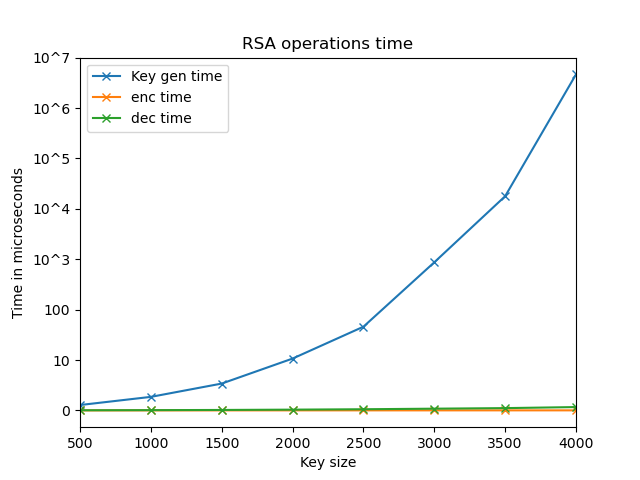
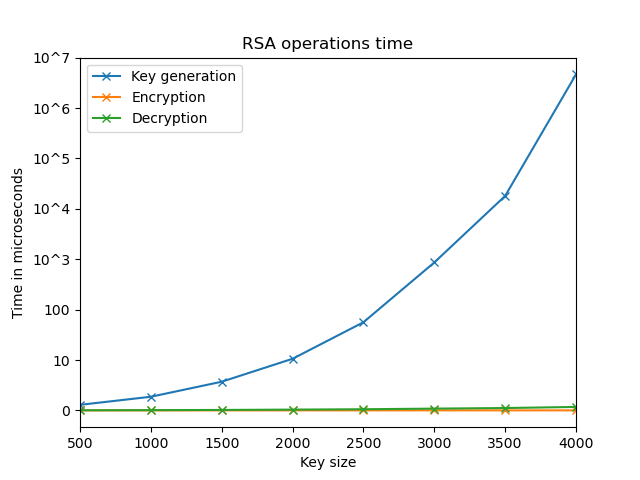
:memo:Readme update, :bento:Readme image w. key update

diff --git a/crypto_timer/grapher.py b/crypto_timer/grapher.py
@@ -15,7 +15,7 @@ def grapher():
     key_gen_file_name = algo_name+"_key_gen_size_file"
     enc_file_name = algo_name+"_enc_size_file"
     dec_file_name = algo_name+"_dec_size_file"
-    plot_key_gen = False
+    plot_key_gen = True
     read_from_file = True
     handle_overwriting = False
     equi_spaced_axis_deca = True

diff --git a/README.md b/README.md
@@ -1,18 +1,33 @@
-## Time for RSA key operations are a function of key size
+## RSA operations time plotting
+Plotting the time(in milliseconds) of following operations of [RSA cryptosystem ](https://en.wikipedia.org/wiki/RSA_(cryptosystem)) using 
+[Cryptography](https://pypi.org/project/cryptography/) library in [Python](https://www.python.org/).
 
-
-#### Operations under consideration
-
+Operations :
 - Encryption
 - Decryption
 - Key size
 
-## Images
+This is aimed at the recreation of  the graph in <a href="#Cryptography Book">Cryptography Book</a> Chapter 6: Public Key Crptography and RSA, Page 79.
+
+
+## Features 
+- Saves and read data from respective data files in data_dump.
+- Ability to set starting key size, key size range, no of iterations per key size, time unit and y axis ticks(labels).
+
+
 
 ![RSA time with key](./readme_images/rsa_w_key_img.png)
+
 ![RSA time without key](./readme_images/rsa_wo_key_img.png)
 
-## Libraries
+## Setup
+Clone this repo to your desktop and install the <a href="#Libraries used">Libraries used</a> using [pip](https://pypi.org/project/pip/).
+
+## Usage
+After you clone this repo to your desktop, go to its root directory and run with main.py file in your Pyhton IDE respective graph matplotlib dialog with output the graph.
+
+
+## Libraries used
 
 This software uses the following open source packages:
 
@@ -21,4 +36,16 @@ This software uses the following open source packages:
 - [Cryptography](https://pypi.org/project/cryptography/)
 - [Time](https://docs.python.org/3/library/time.html)
 
+
+
+## Cryptography Book
+Cryptography, Network Security, and Cyber Laws [Book](https://www.cengage.co.in/book-list/print/cryptography-network-security-and-cyber-laws-sl) authored by  Bernard L. Menezes | Ravinder Kumar.
+ISBN: 9789386858948
+Edition: 1st
+Year : 2018
+
+
+## Constraints ⚠
+[Cryptography library](https://pypi.org/project/cryptography/) used has limitation of minimum key size of 800 to avoid errors of  Data too long for key size
+even for empty string.
 
